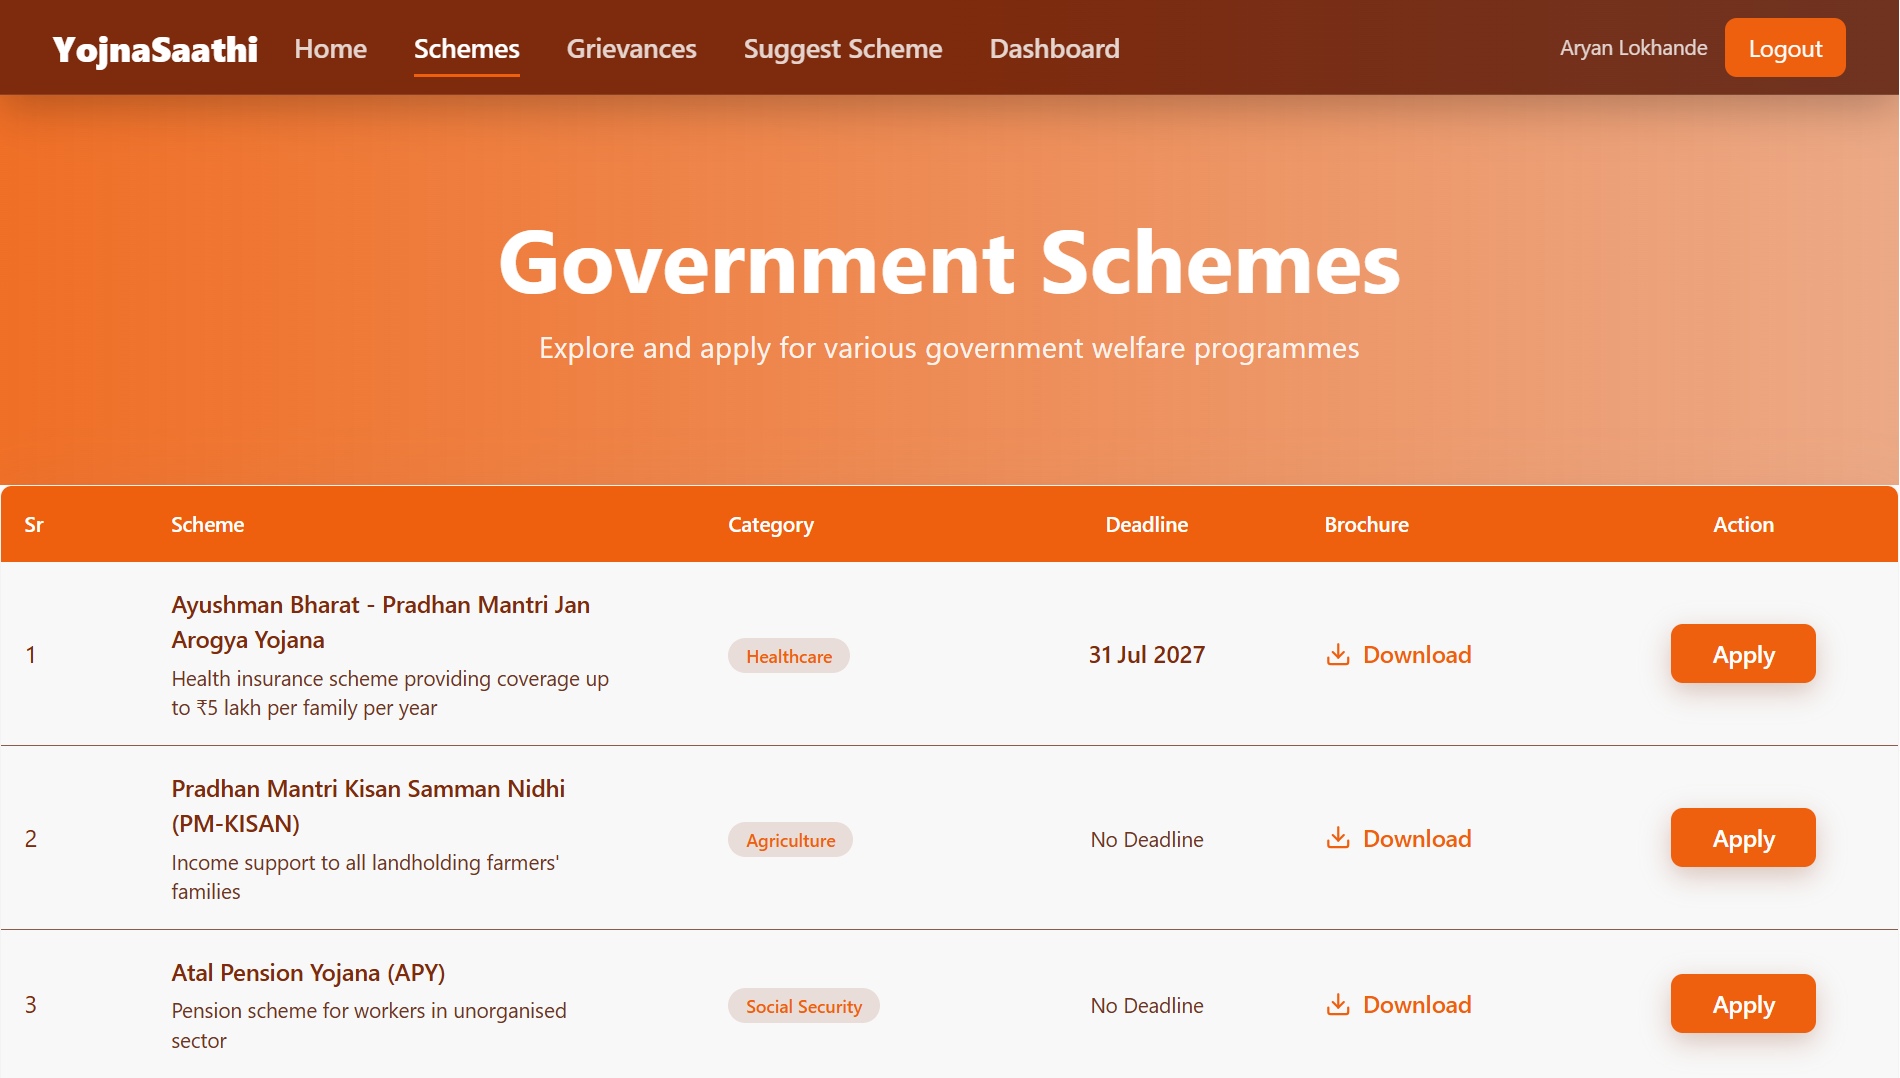
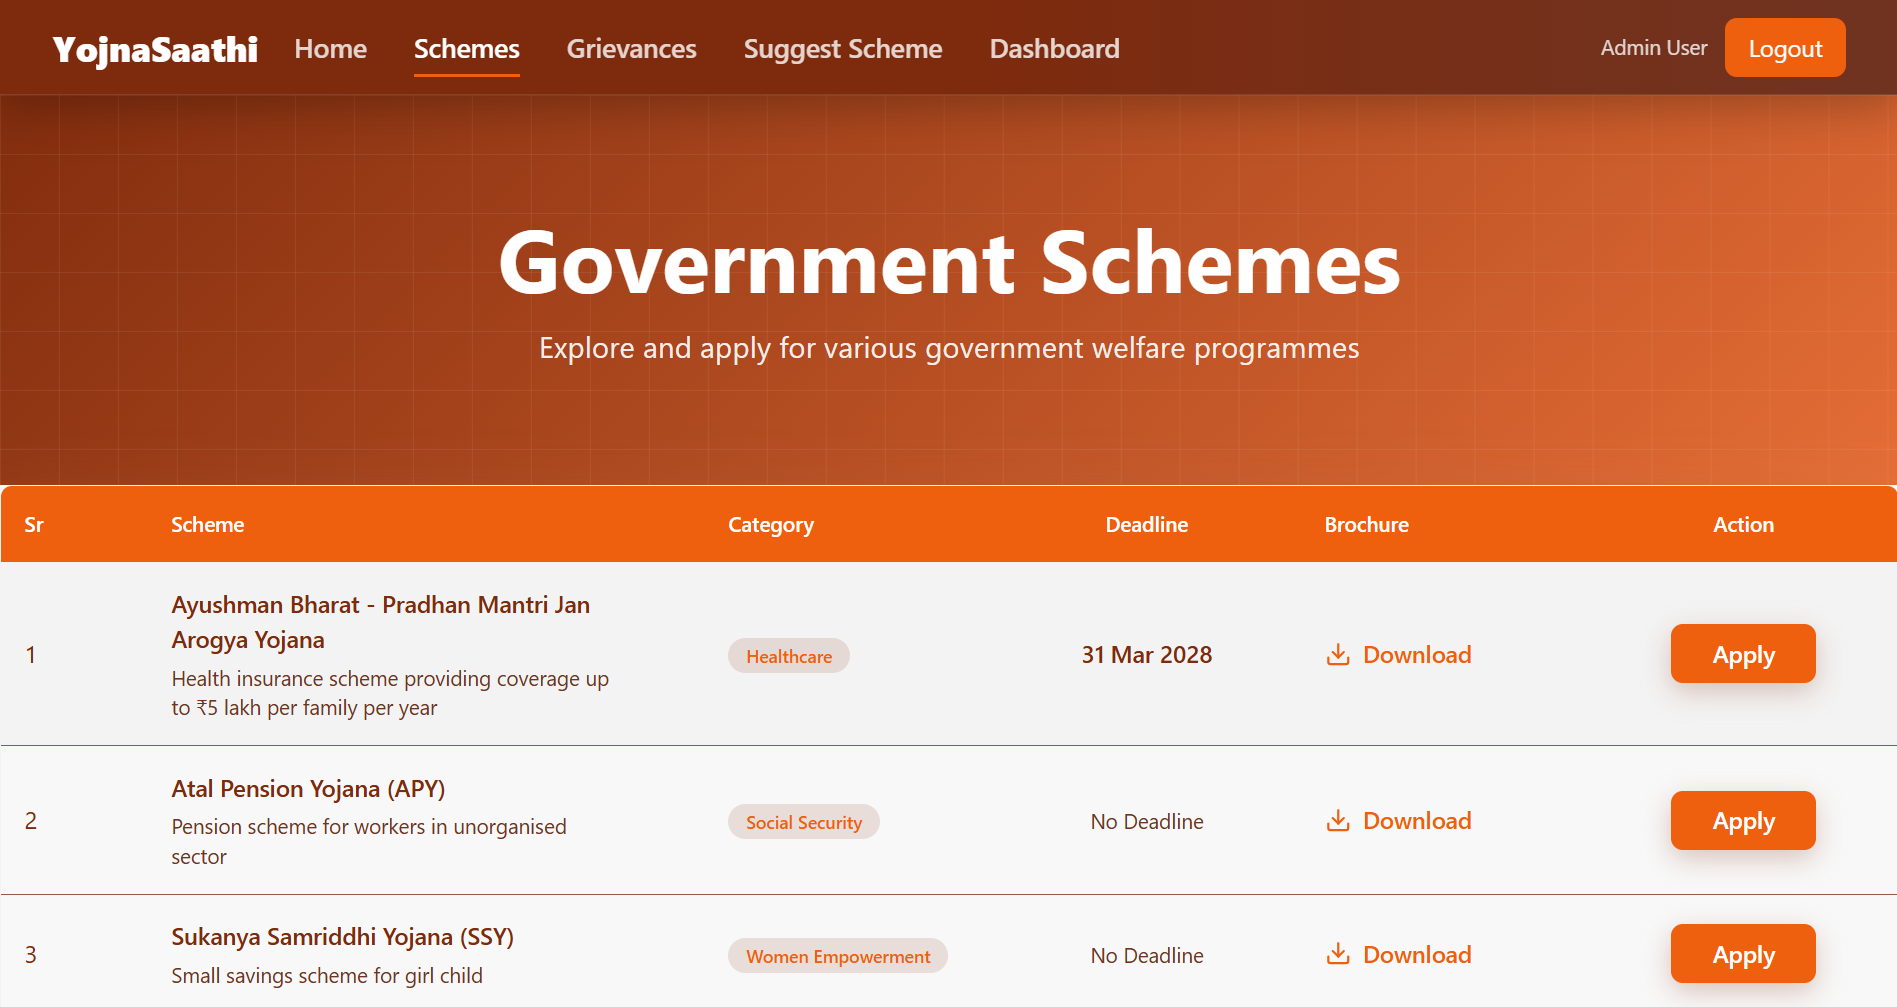
Set page titles
Browser tab

diff --git a/src/components/ProjectDetail.jsx b/src/components/ProjectDetail.jsx
@@ -1,5 +1,4 @@
-import React from "react";
-import { useState } from "react";
+import React, { useState, useEffect } from "react";
 import { useParams, useNavigate } from "react-router-dom";
 import { motion } from "framer-motion";
 import Button from "@mui/material/Button";
@@ -16,6 +15,10 @@ function ProjectDetail() {
   const subPoint = project.subPoints;
 
   const navigate = useNavigate();
+
+  useEffect(() => {
+    document.title = `Project ${idx}`;
+  }, [idx]);
 
   const handleBack = () => {
     navigate("/");

diff --git a/src/section/Home.jsx b/src/section/Home.jsx
@@ -9,6 +9,7 @@ import "aos/dist/aos.css";
 function Home() {
   useEffect(() => {
     AOS.init({ duration: 1000, once: true }); // Initialize AOS
+    document.title = "My Portfolio";
   }, []);
   return (
     <>